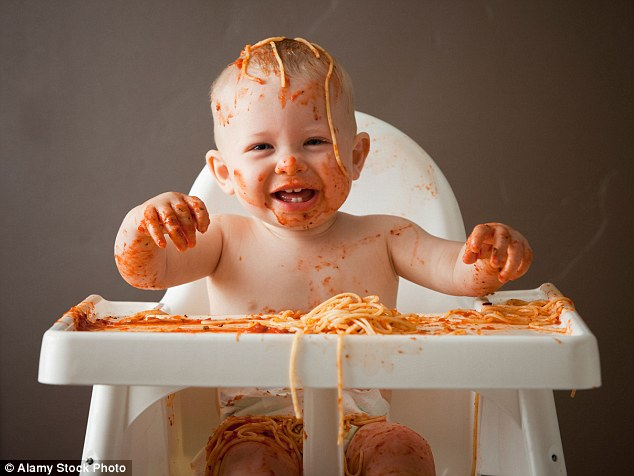
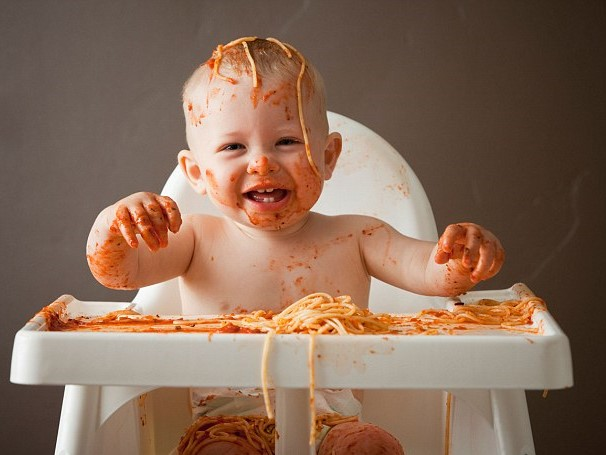
uprava backgroundu na img

diff --git a/index.html b/index.html
@@ -12,5 +12,6 @@
         <nav class="test">
             <a href="https://www.google.cz/search?q=kopr&rlz=1C1FGUR_csCZ758CZ758&oq=kopr&aqs=chrome..69i57j0l5.961j0j7&sourceid=chrome&ie=UTF-8">KOPR / TEST NAVu</a>     
         </nav>
+        <img src="background.jpg">
     </body>
 </html>

diff --git a/main.css b/main.css
@@ -12,8 +12,4 @@ h1 {
 
 body {
     margin: 0;
-    background-image: url(background.jpg);
-    background-position: center;
-    background-repeat: no-repeat;
-    background-size: cover;
 }
